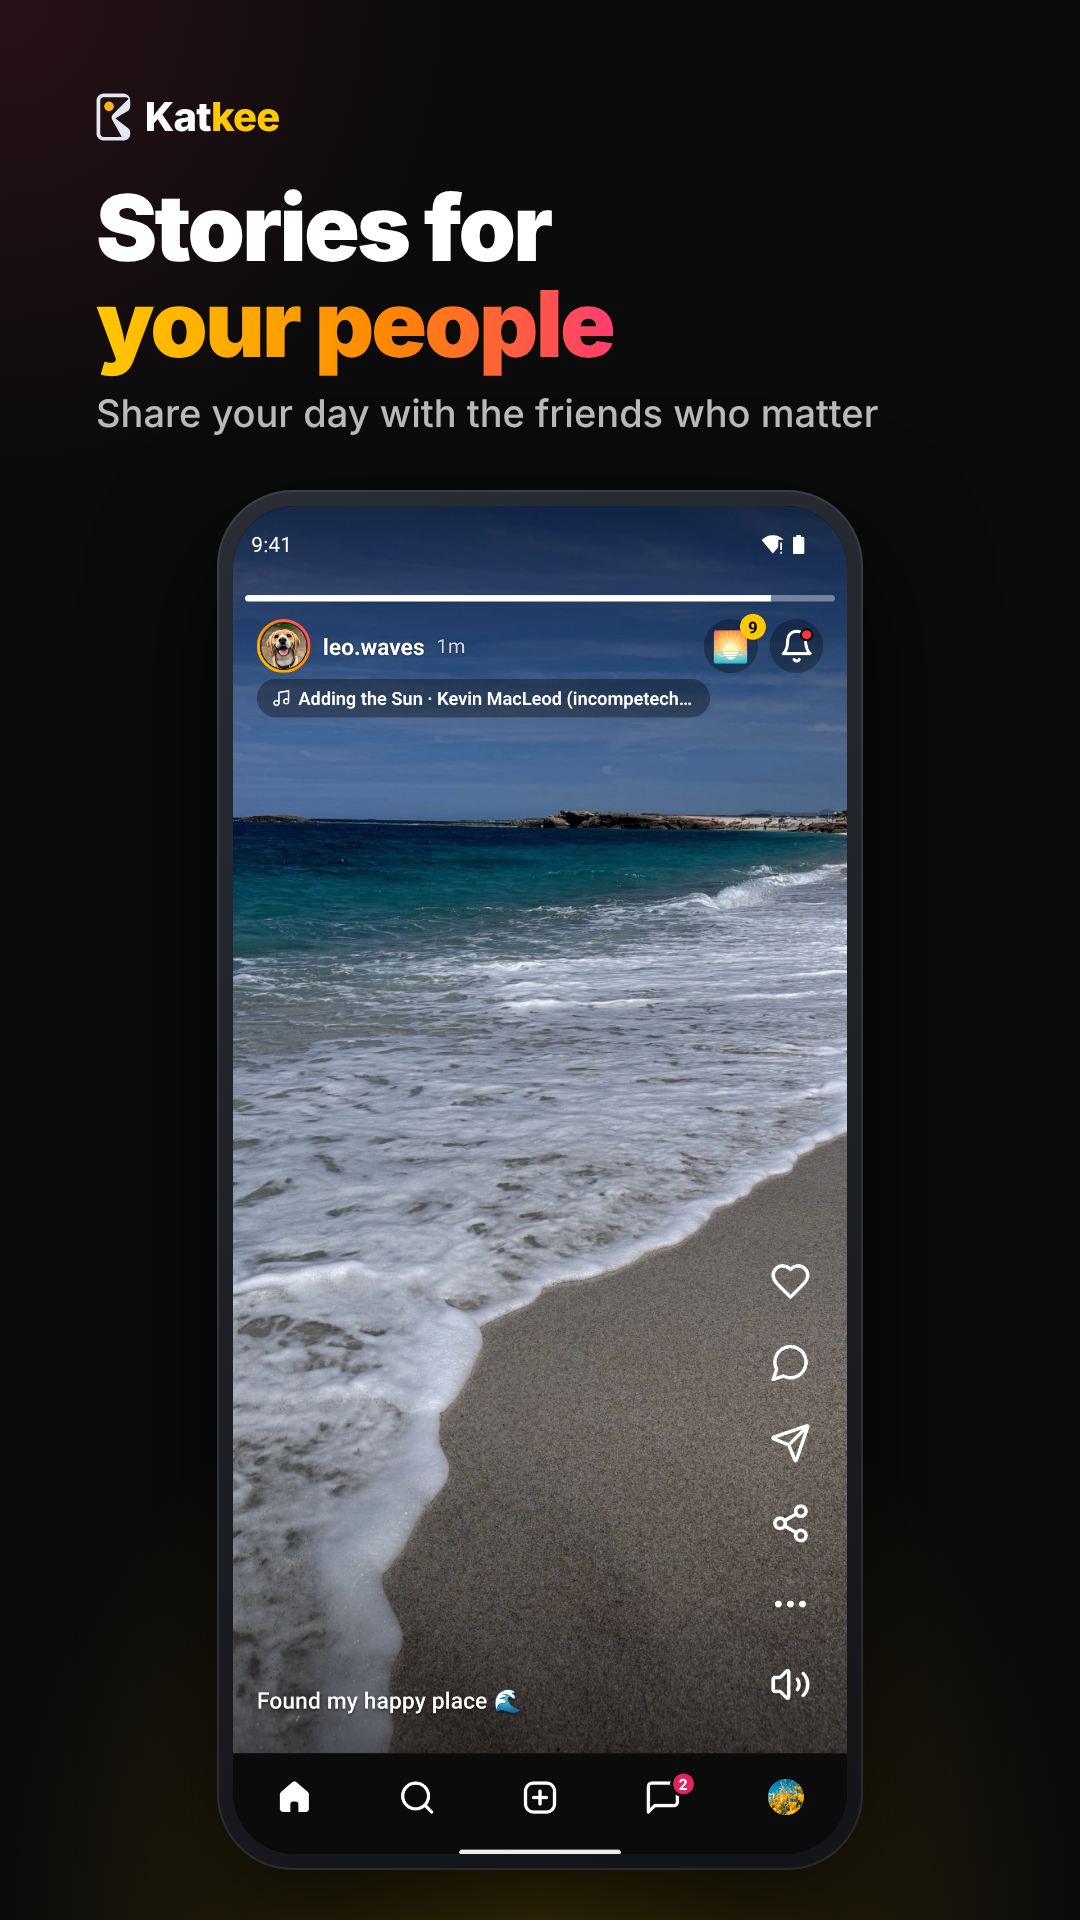
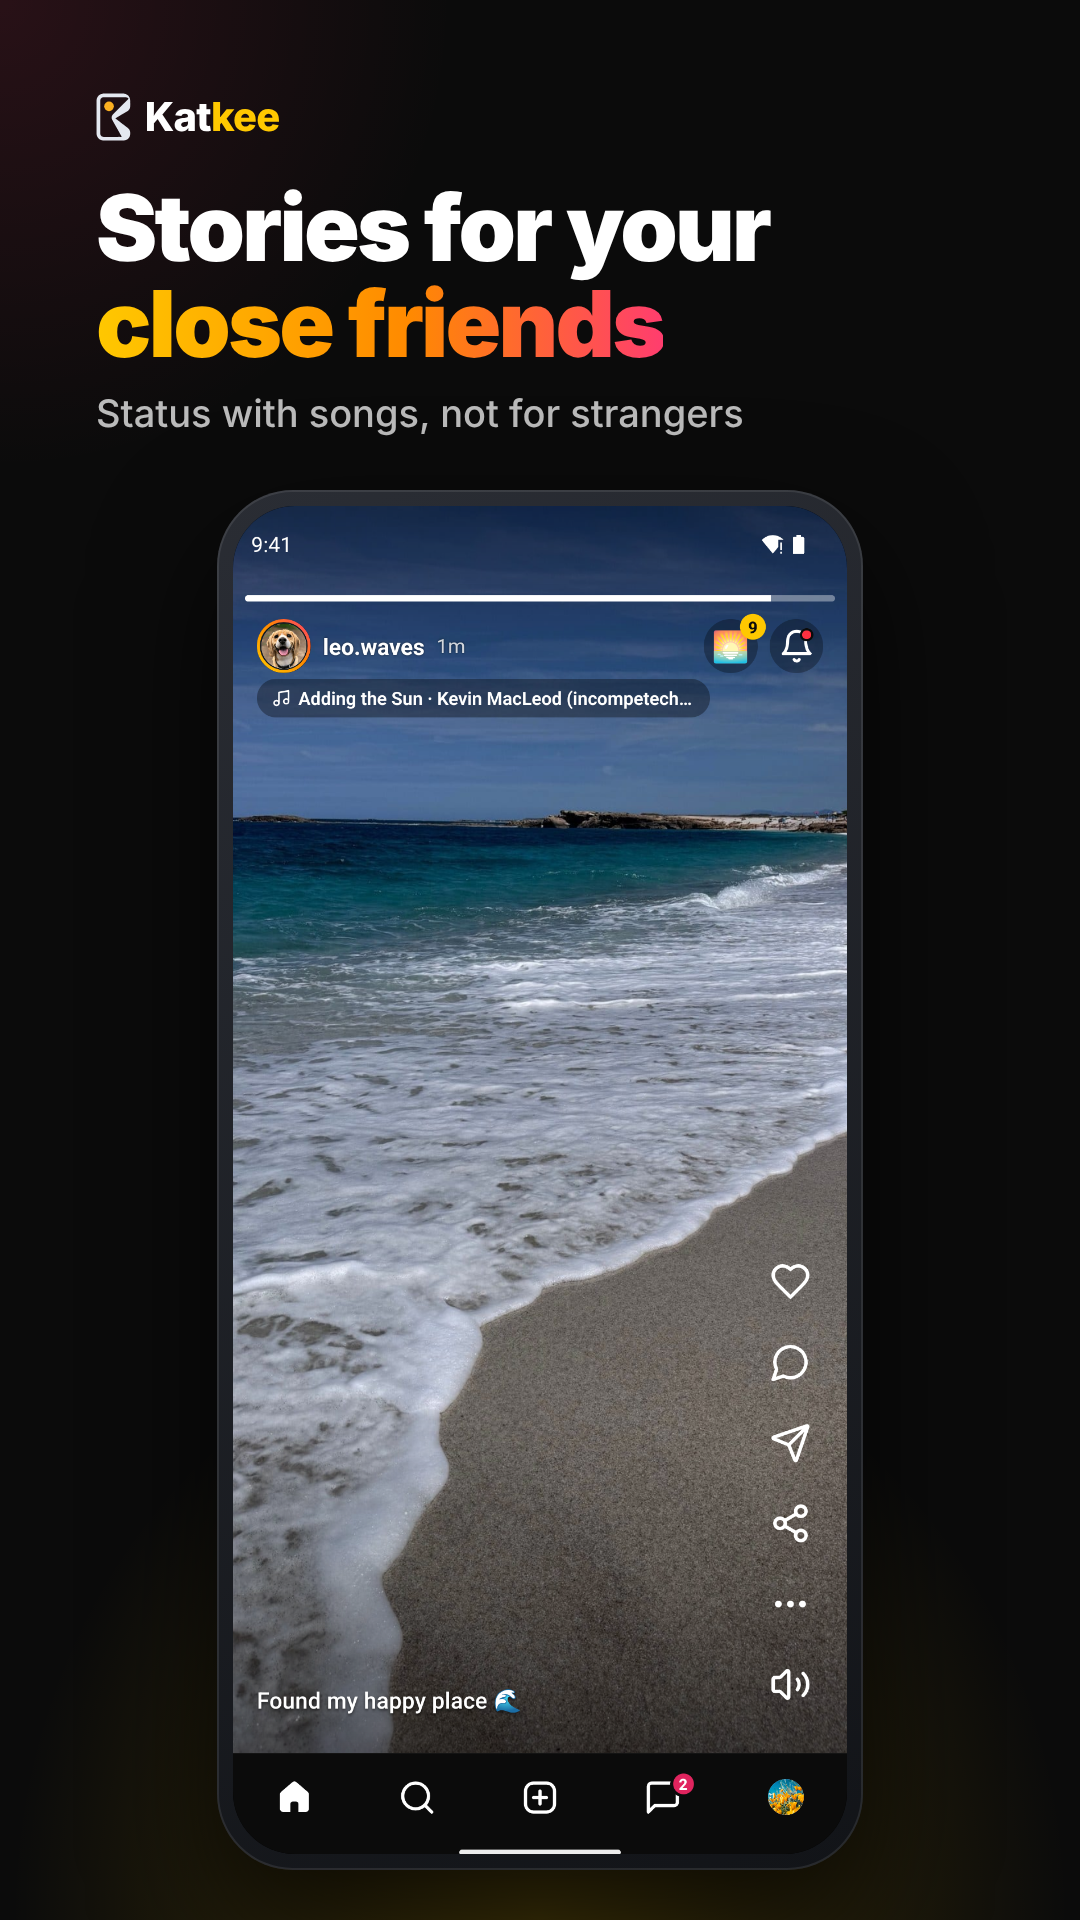
Google Ads image set and an English listing that matches the ads
Four ideas in Google's three App campaign sizes from real app screens (demo accounts); the
listing's short description, opening lines and first screenshot now make the same promise as
the ads: Stories and status with songs for your close friends.

Claude-Session: https://claude.ai/code/session_01J39edhYa5Etja6PTbp2TRn

Changed region(s): [[0.0917, 0.0938, 0.7944, 0.25]]

diff --git a/docs/PLAY_STORE_LISTING.md b/docs/PLAY_STORE_LISTING.md
@@ -101,12 +101,14 @@ Katkee: Stories, Status & Chat
 
 ### Short description (80 characters max)
 <!-- field:short:en -->
-Close friends Stories & status with music. Chat, voice notes and video calls.
+Stories & status with songs, just for your close friends. Chat and video call.
 <!-- /field -->
 
 ### Full description (4,000 characters max)
 <!-- field:full:en -->
-Katkee is a Stories and status app for your close friends. Post your day as photo and video Stories that last 24 hours, like a status, add a song, text and animated stickers, and choose exactly who sees it: everyone, followers or only your Close Friends. Then chat, send voice notes and video call your friends, all in one app.
+Stories for your close friends, not for strangers. Post your day as a photo or video Story with a song, and choose exactly who sees it. Then chat, send voice notes and video call the same friends, all in one app.
+
+Katkee is a Stories and status app for the people you actually know. Stories last 24 hours, like a status: add a song, text and animated stickers, and share with everyone, your followers or only your Close Friends.
 
 Why people choose Katkee
 • Close Friends Stories: share some moments only with your inner circle
@@ -133,6 +135,7 @@ Chat, voice notes and video calls
 • Voice calls and video calls
 • Reply to a Story, react with an emoji or double tap to like
 • Share your Story to WhatsApp in one tap
+• Invite friends from your contacts: one tap opens WhatsApp with your invite
 
 Meet your people
 • Crossed paths (optional, off until you turn it on): find out when you were in the same area as someone else who turned it on. It never shows where or when
